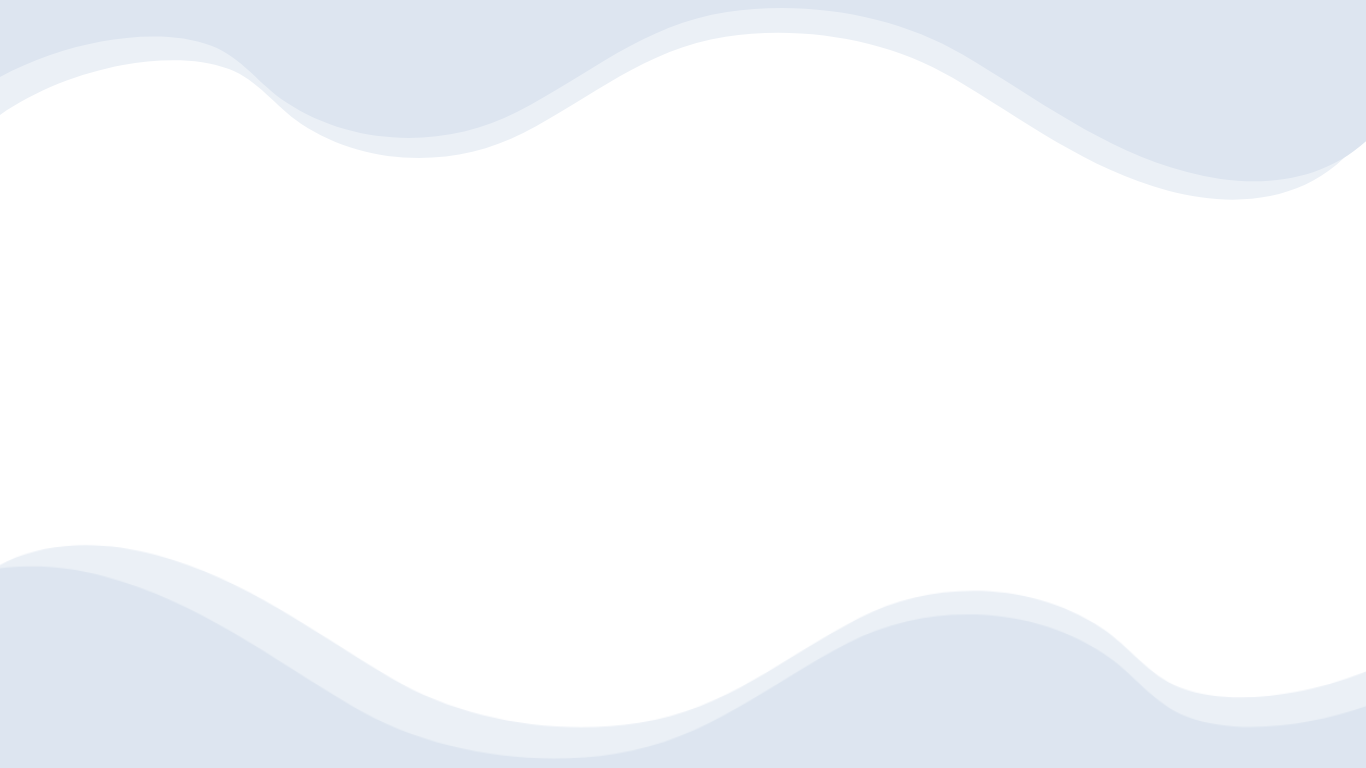
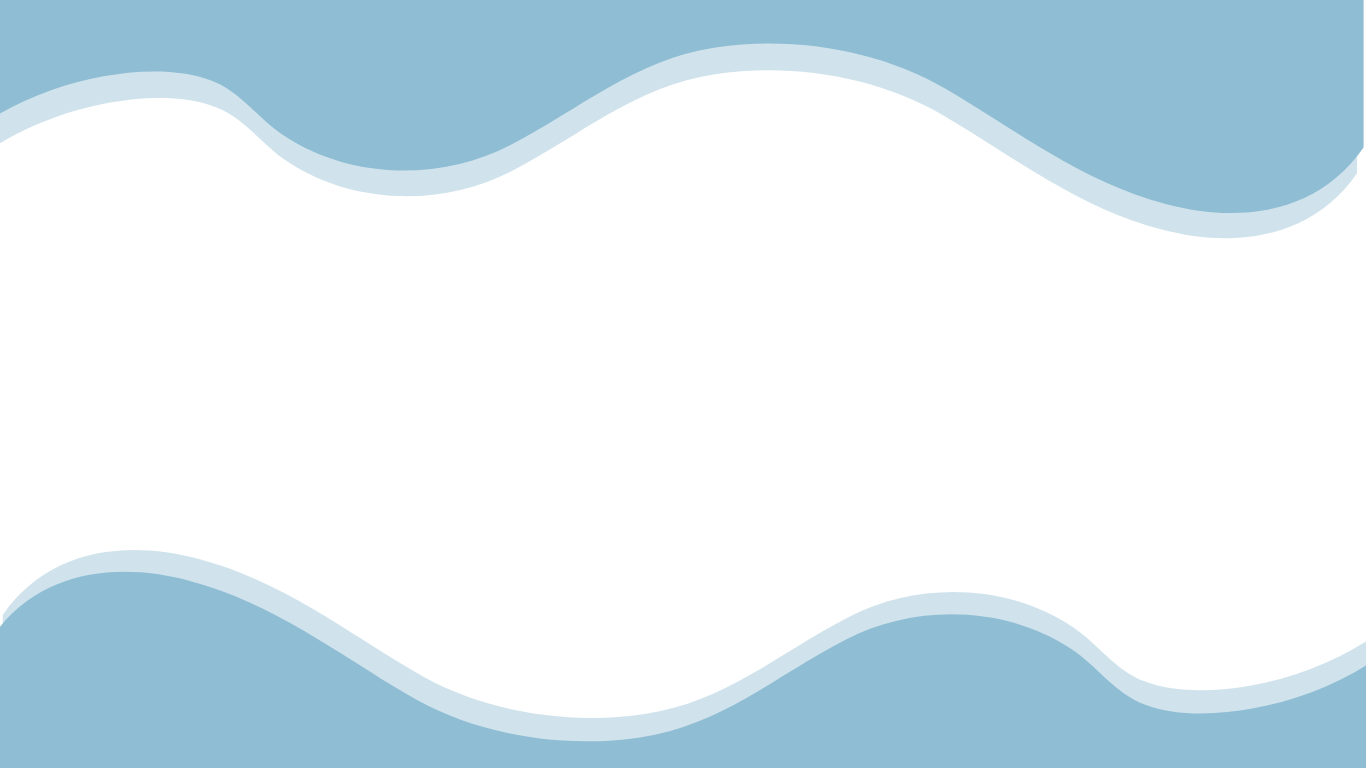
background changed

diff --git a/Frontend/src/pages/Services.jsx b/Frontend/src/pages/Services.jsx
@@ -4,7 +4,7 @@ import { motion } from "framer-motion";
 import { useInView } from "react-intersection-observer";
 import { easeInOut } from "framer-motion";
 import React, { useState, useEffect } from 'react';
-import backgroundImage from '../assets/Untitled design.png'
+import backgroundImage from '../assets/home2.png'
 
 
 
@@ -91,11 +91,14 @@ const Services = () => {
     <div 
       className="min-h-screen bg-white" 
       style={{
-        backgroundImage: `url(${backgroundImage})`, // Updated background image
-        backgroundSize: 'cover',  // Ensures the image covers the entire screen and adjusts with screen size
-        backgroundPosition: 'center',  // Centers the image
-        backgroundRepeat: 'no-repeat',  // Prevents image from repeating
-          // Ensures the div takes up the full viewport height
+  
+         backgroundImage: `linear-gradient(to top, #8fbdd3, rgb(255, 255, 255)),url(${backgroundImage})`, // Set the background image
+         backgroundSize: 'cover',  // Ensures the image covers the entire screen and adjusts with screen size
+         backgroundPosition: 'center',  // Centers the image
+         backgroundRepeat: 'no-repeat',  // Prevents image from repeating
+         width: '100%',
+         height: '100%',  // Ensures the div takes up the full viewport height
+       
       }}
     >
       {/* Hero Section */}

diff --git a/Frontend/src/components/Home_2.jsx b/Frontend/src/components/Home_2.jsx
@@ -8,7 +8,7 @@ import 'swiper/css';
 import 'swiper/css/effect-coverflow';
 import 'swiper/css/pagination';  
 import { EffectCoverflow, Pagination, Autoplay } from 'swiper/modules';
-import backgroundImage from '../assets/home2.png';// Import the background image
+import backgroundImage from '../assets/home2.png';// Import the background imageC:\Users\hp\project\project\Frontend\src\assets\home2.png
 
 
 const Home_2 = () => {
@@ -44,7 +44,7 @@ const Home_2 = () => {
     <div 
       className='0' 
       style={{
-        backgroundImage: `linear-gradient(to bottom, #dde5f0, rgb(255, 255, 255)), url(${backgroundImage})`, // Add gradient effect on background image
+        backgroundImage: `linear-gradient(to bottom, #8fbdd3, rgb(255, 255, 255)), url(${backgroundImage})`, // Add gradient effect on background image
         backgroundSize: 'cover',  // Ensures the image covers the entire screen and adjusts with screen size
         backgroundPosition: 'center',  // Centers the image
         backgroundRepeat: 'no-repeat',  // Prevents image from repeating

diff --git a/Frontend/src/components/NavEnd.jsx b/Frontend/src/components/NavEnd.jsx
@@ -62,7 +62,7 @@ const NavEnd = () => {
   return (
 
     <div className='sm:px-0 '   style={{
-      backgroundImage: ` linear-gradient(to bottom, #dde5f0, rgb(255, 255, 255)),url(${backgroundImage})`, // Add gradient effect on background image
+      backgroundImage: ` linear-gradient(to bottom, #8fbdd3, rgb(255, 255, 255)),url(${backgroundImage})`, // Add gradient effect on background image
       backgroundSize: 'cover',  // Ensures the image covers the entire screen and adjusts with screen size
       backgroundPosition: 'center',  // Centers the image
       backgroundRepeat: 'no-repeat',  // Prevents image from repeating

diff --git a/Frontend/src/pages/About.jsx b/Frontend/src/pages/About.jsx
@@ -50,7 +50,7 @@ const About = () => {
     <div
       className='0'
       style={{
-        backgroundImage: `linear-gradient(to top, #dde5f0, rgb(255, 255, 255)), url(${backgroundImage})`, // Add gradient effect on background image
+        backgroundImage: `linear-gradient(to top, #8fbdd3, rgb(255, 255, 255)), url(${backgroundImage})`, // Add gradient effect on background image
         backgroundSize: 'cover',  // Ensures the image covers the entire screen and adjusts with screen size
         backgroundPosition: 'center',  // Centers the image
         backgroundRepeat: 'no-repeat',  // Prevents image from repeating

diff --git a/Frontend/src/components/Home_3.jsx b/Frontend/src/components/Home_3.jsx
@@ -29,7 +29,7 @@ const Home_3 = () => {
     <div 
       className='mt-40 px-4 sm:px-0'
       style={{
-        backgroundImage: `linear-gradient(to top, #dde5f0, rgb(255, 255, 255)),url(${backgroundImage})`, // Set the background image
+        backgroundImage: `linear-gradient(to top, #8fbdd3, rgb(255, 255, 255)),url(${backgroundImage})`, // Set the background image
         backgroundSize: 'cover',  // Ensures the image covers the entire screen and adjusts with screen size
         backgroundPosition: 'center',  // Centers the image
         backgroundRepeat: 'no-repeat',  // Prevents image from repeating
